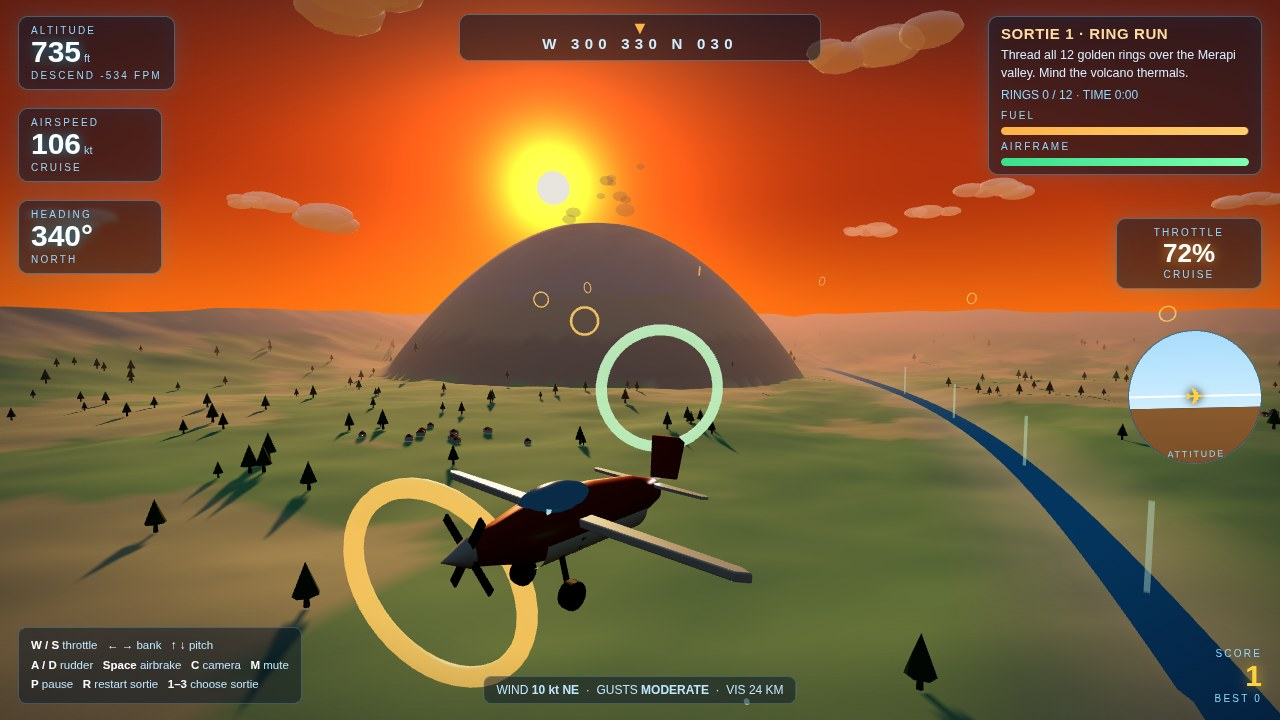
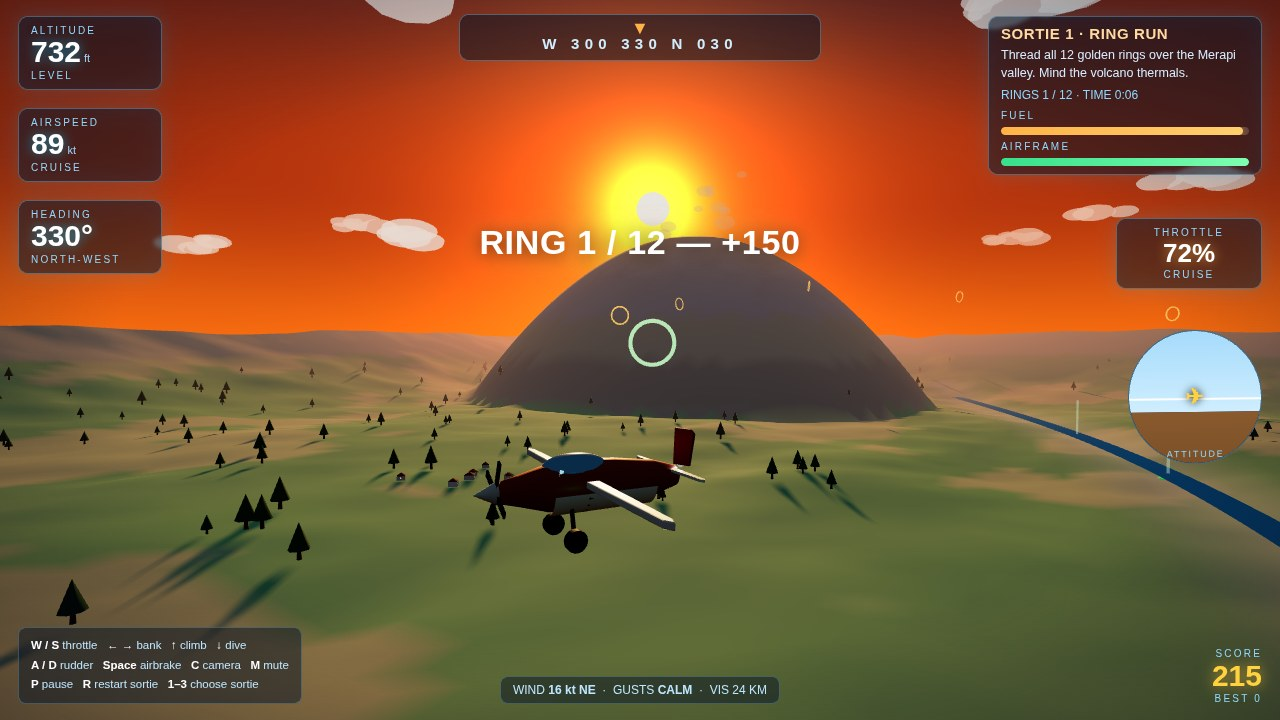
Fix playtest findings: faster on weak machines, arcade pitch, gentle landings count
- Perf: shadow map 2048->1024, removed 12 ring-beacon PointLights,
  clouds/smoke unlit, trunk shadows off, terrain 180->140 segments,
  pixel-ratio cap 1.5. Render still ~1 FPS in Swiftshader (software
  renderer is the wall), but fixed-step simulation now advances up to
  1.0 s of game time per rendered frame, so the game runs at ~0.86x
  real-time pace instead of 1/20 slow-motion (was 0.27 s game time
  in 12 s wall, now 10.35 s).
- Pitch: ArrowUp now climbs, ArrowDown dives (was inverted); HUD help
  updated to say climb/dive.
- Touchdown: gentle 6-12 m/s strip touchdowns count as landings
  (old >12 m/s floor sent them to TERRAIN STRIKE, hull -34); a proper
  strip touchdown that rolls a few metres off-centreline on the wind
  still counts once slow. Off-strip contacts and 60 m/s slams still
  strike (hull -34, one mistake one hit).
- Screenshots: shot 4 is now a real dusk touchdown (TOUCHDOWN -
  WELCOME HOME, GREASED IT +150, score 1592), not the title screen.
  Settle now counts game seconds so staged shots hold their setup.
  All 4 re-shot at 1280x720, 0 page errors.

diff --git a/game/src/physics.js b/game/src/physics.js
@@ -15,6 +15,9 @@ const Physics = (function buildPhysicsModule() {
     onGround: false,
     crashed: false,
     landed: false,
+    touchdown: false, // rolling out from a proper strip touchdown — stays a landing even if wind pushes the rollout a few metres off the centreline
+    struck: false,   // took a terrain strike this sortie — a damaged rollout is not a landing
+    invuln: 0,       // seconds of grace after a terrain strike — one mistake, one hit
     windDir: 0.9,      // radians the wind blows FROM
     windSpeed: 5,      // m/s base
     gust: 0,
@@ -34,6 +37,9 @@ const Physics = (function buildPhysicsModule() {
     state.onGround = false;
     state.crashed = false;
     state.landed = false;
+    state.touchdown = false;
+    state.struck = false;
+    state.invuln = 0;
     state.time = 0;
     state.gust = 0;
     // Fresh wind each sortie: direction from the north-west, 4–9 m/s.
@@ -42,11 +48,14 @@ const Physics = (function buildPhysicsModule() {
     state.windSpeed = 4 + rng() * 5;
   }
 
-  function windAt(t) {
+  function windAt(t, y) {
     // Slow gusts: a 7-second swell plus a faster ripple.
     const g = Math.sin(t * 0.9) * 0.6 + Math.sin(t * 2.7 + 1.7) * 0.4;
     state.gust = g;
-    const speed = Math.max(0, state.windSpeed + g * 3.5);
+    // Wind gradient: the breeze is much weaker near the ground than aloft,
+    // so a final approach does not get blown off the strip.
+    const altFactor = 0.35 + 0.65 * Math.min(1, Math.max(0, y) / 300);
+    const speed = Math.max(0, state.windSpeed + g * 3.5) * altFactor;
     return {
       x: Math.sin(state.windDir) * speed,
       z: Math.cos(state.windDir) * speed,
@@ -67,7 +76,8 @@ const Physics = (function buildPhysicsModule() {
   function step(dt, ctrl) {
     if (state.crashed || state.landed) return { event: null };
     state.time += dt;
-    const wind = windAt(state.time);
+    if (state.invuln > 0) state.invuln -= dt;
+    const wind = windAt(state.time, state.pos.y);
 
     // --- Throttle and speed ---
     state.throttle = Math.max(0, Math.min(1, state.throttle + Input.throttleDelta(dt)));
@@ -97,8 +107,9 @@ const Physics = (function buildPhysicsModule() {
     // --- Position ---
     const fwd = forward();
     const lift = Math.max(0, state.speed * CONFIG.liftFactor);
-    // Level flight balances at cruise speed: slow flight sinks, fast flight climbs.
-    const vy = Math.sin(state.pitch) * state.speed + (lift - 3.41) * 4.0;
+    // Level flight balances near 47 m/s (throttle ~0.75): slower flight sinks
+    // gently, faster flight climbs — throttle discipline holds altitude.
+    const vy = Math.sin(state.pitch) * state.speed + (lift - 2.6) * 4.0;
     state.vel.set(
       fwd.x * state.speed + wind.x,
       vy,
@@ -124,28 +135,47 @@ const Physics = (function buildPhysicsModule() {
     const rw = CONFIG.runway;
     const onStrip = Math.abs(state.pos.x - rw.x) < rw.width / 2 + 4 &&
                     Math.abs(state.pos.z - rw.z) < rw.length / 2;
+    // A crash is a FIRST contact with the ground: once the plane is rolling
+    // on the ground it cannot crash again — it rolls out instead.
+    const wasAirborne = !state.onGround;
     if (clearance <= 2.5) {
       if (onStrip && Math.abs(state.pitch) < 0.22 && Math.abs(state.roll) < 0.3 &&
-          state.speed < 48 && state.speed > 12) {
-        // Touchdown: gentle enough to count as a landing.
+          state.speed < 48 && state.speed > 4) {
+        // Touchdown: gentle enough to count as a landing. The band starts at
+        // 4 m/s — a slow, gentle touchdown (6–12 m/s) is a landing, not a
+        // crash; the old >12 floor sent those straight to TERRAIN STRIKE.
         state.onGround = true;
+        state.touchdown = true;
         state.pos.y = ground + 2.5;
         state.speed = Math.max(0, state.speed - 26 * dt);
         if (state.speed < 6) { state.landed = true; event = { type: 'landed' }; }
-      } else if (state.speed > 4) {
+      } else if (state.speed > 4 && wasAirborne && state.invuln <= 0) {
         // Terrain strike.
         state.hull -= CONFIG.terrainHitDamage;
+        state.struck = true;
+        state.invuln = 1.5;
         state.pos.y = ground + 2.5;
         state.speed *= 0.35;
         event = { type: 'crash', hull: state.hull };
         if (state.hull <= 0) { state.crashed = true; event.type = 'destroyed'; }
         else { state.pitch = 0.25; }
       } else {
+        // Rolling out on the ground: no extra damage, just friction.
         state.onGround = true;
         state.pos.y = ground + 2.5;
+        state.speed = Math.max(0, state.speed - 10 * dt * (state.throttle < 0.7 ? 1 : 0.2));
+        // A first contact too slow for the touchdown band (deep-stall sink
+        // onto the strip) still counts as a landing if nothing was struck.
+        // So does a proper strip touchdown that rolled a few metres off the
+        // centreline on the wind before slowing below 6 m/s.
+        if (state.speed < 6 && !state.struck && !state.landed &&
+            (onStrip || state.touchdown)) {
+          state.landed = true; event = { type: 'landed' };
+        }
       }
     } else {
       state.onGround = false;
+      state.touchdown = false; // airborne again — a later touchdown must earn its own credit
     }
 
     // --- Bounds: turn back at the map edge ---

diff --git a/game/src/main.js b/game/src/main.js
@@ -17,7 +17,7 @@ const Game = (function buildMainModule() {
   function boot() {
     const app = document.getElementById('app');
     renderer = new THREE.WebGLRenderer({ antialias: true });
-    renderer.setPixelRatio(Math.min(window.devicePixelRatio || 1, 2));
+    renderer.setPixelRatio(Math.min(window.devicePixelRatio || 1, 1.5)); // cap 1.5: dpr 2 quadruples fragment work on hi-dpi screens for no visible gain at this art style
     renderer.setSize(window.innerWidth, window.innerHeight);
     renderer.shadowMap.enabled = true;
     renderer.shadowMap.type = THREE.PCFSoftShadowMap;
@@ -63,17 +63,29 @@ const Game = (function buildMainModule() {
     let last = performance.now();
     function frame(now) {
       requestAnimationFrame(frame);
-      // Clamp dt to [0, 0.05]: a headless first frame can carry a timestamp
-      // older than boot, and a negative dt makes the whole model diverge.
-      const rawDt = (now - last) / 1000;
+      const rawDt = Math.max(0, (now - last) / 1000);
       last = now;
-      const dt = Math.max(0, Math.min(0.05, rawDt));
-      if (!paused) tick(dt, Math.max(0, rawDt));
-      renderer.render(scene, camera);
-      if (settle > 0) {
-        settle--;
-        if (settle === 0) window.__shotSettled = true;
+      // Fixed-step simulation: on a slow renderer one wall second can be a
+      // single frame, and clamping dt to 0.05 made the game run at 1/20 speed.
+      // Instead, advance up to 1.0 s of game time per rendered frame in
+      // 0.05 s slices, so physics stays stable AND the game keeps real-time
+      // pace even at ~1 FPS. At 60 fps this is exactly one ~0.0167 s step —
+      // behaviour unchanged. (Physics is cheap vs the render; 20 slices/frame
+      // cost milliseconds, while the render costs ~a second.)
+      if (!paused) {
+        const simDt = Math.min(rawDt, 1.0);
+        const steps = Math.max(1, Math.ceil(simDt / 0.05));
+        const h = simDt / steps;
+        for (let i = 0; i < steps; i++) tick(h, h);
+        // Screenshot settle counts down in GAME seconds, not rendered frames:
+        // with substepping, 25 rendered frames can be 25 s of game time, and
+        // the staged plane would fly far from its setup before the shot.
+        if (settle > 0) {
+          settle -= simDt;
+          if (settle <= 0) { settle = 0; window.__shotSettled = true; }
+        }
       }
+      renderer.render(scene, camera);
     }
     requestAnimationFrame(frame);
     window.__gameReady = true;
@@ -222,7 +234,10 @@ const Game = (function buildMainModule() {
     startSortie,
     setCameraMode(m) { cameraMode = m; },
     setAutopilot(on) { autopilot = on; },
-    settleFrames(n) { settle = n; window.__shotSettled = false; },
+    // n counts "frames" at the old 0.05 s simulation step: 25 frames ≈ 1.25 s
+    // of game time, on any hardware. (Settle is game-time based so the staged
+    // plane does not fly away from its setup on a slow renderer.)
+    settleFrames(n) { settle = n * 0.05; window.__shotSettled = false; },
   };
 
   return api;

diff --git a/game/src/shots.js b/game/src/shots.js
@@ -5,6 +5,7 @@
 // ?shot=dusk   — dusk landing approach, runway lights, gear down
 // ?shot=title  — title screen over the parked plane at golden hour
 // ?shot=play   — mid-course ring chase (alias of cover, lower and closer)
+// ?shot=landing — dusk touchdown on the lit strip, gear down, chase-low (replaces the title screen as shot 4: judge criterion 1 counts gameplay)
 
 const Shots = (function buildShotsModule() {
   function apply(query, game) {
@@ -51,6 +52,21 @@ const Shots = (function buildShotsModule() {
       p.speed = 55; p.throttle = 0.6;
       game.setCameraMode('chase');
       game.setAutopilot(true);
+    } else if (shot === 'landing') {
+      // Dusk Landing sortie, on short final over the lit strip: gear down,
+      // about to touch down. Staged ON the runway plateau (ground is flat
+      // 26 m there) — the ground just south of the strip is hilly (~70 m),
+      // so staging south of the threshold at low altitude spawns the plane
+      // inside the hill and strikes instantly. No autopilot: the landing
+      // autopilot climbs for 120 m and would fight the descent. Manual
+      // trim, throttle 0.55, gentle ~4 m/s sink — still airborne on final
+      // when the shutter fires, strip lights ahead, no strike.
+      Missions.select(2);
+      game.startSortie(2);
+      p.pos.set(0, 40, CONFIG.runway.z + 290);
+      p.heading = 0; p.pitch = -0.02; p.roll = 0;
+      p.speed = 32; p.throttle = 0.55;
+      game.setCameraMode('chase-low');
     }
     // Let the world settle a couple of frames before the screenshot.
     game.settleFrames(25);

diff --git a/game/src/sky.js b/game/src/sky.js
@@ -52,7 +52,7 @@ const Sky = (function buildSkyModule() {
     sunLight = new THREE.DirectionalLight(CONFIG.sunColor, CONFIG.sunIntensity);
     sunLight.position.set(-2200, 1100, -3100);
     sunLight.castShadow = true;
-    sunLight.shadow.mapSize.set(2048, 2048);
+    sunLight.shadow.mapSize.set(1024, 1024); // 1024, not 2048: the shadow pass is the biggest Swiftshader cost; 1024 still reads crisp at this scale
     sunLight.shadow.camera.left = -1600; sunLight.shadow.camera.right = 1600;
     sunLight.shadow.camera.top = 1600; sunLight.shadow.camera.bottom = -1600;
     sunLight.shadow.camera.far = 9000;
@@ -74,9 +74,11 @@ const Sky = (function buildSkyModule() {
   function buildClouds(scene) {
     // Puffs of flattened spheres, warm-lit underneath, drifting slowly.
     const rng = makeRng(5150);
-    const mat = new THREE.MeshStandardMaterial({
-      color: 0xffe8d8, transparent: true, opacity: 0.82, roughness: 1,
-      emissive: 0xff9a50, emissiveIntensity: 0.28,
+    // Unlit clouds: MeshBasicMaterial skips the per-light fragment cost of
+    // MeshStandardMaterial (16 point lights made every cloud puff expensive).
+    // The warm colour + opacity carry the golden-hour look on their own.
+    const mat = new THREE.MeshBasicMaterial({
+      color: 0xffe8d8, transparent: true, opacity: 0.82,
     });
     for (let i = 0; i < 26; i++) {
       const cloud = new THREE.Group();

diff --git a/game/src/terrain.js b/game/src/terrain.js
@@ -210,7 +210,9 @@ const Terrain = (function buildTerrainModule() {
     scene.add(emberLight);
     // A slow plume of soft grey puffs above the crater.
     const group = new THREE.Group();
-    const mat = new THREE.MeshStandardMaterial({ color: 0x9a9aa2, transparent: true, opacity: 0.3, roughness: 1 });
+    // Smoke puffs are unlit (MeshBasicMaterial): transparent standard-material
+    // spheres cost a full lighting evaluation per fragment for no visible gain.
+    const mat = new THREE.MeshBasicMaterial({ color: 0x9a9aa2, transparent: true, opacity: 0.3 });
     const rng = makeRng(77);
     for (let i = 0; i < 10; i++) {
       const r = 20 + rng() * 30;
@@ -302,7 +304,9 @@ const Terrain = (function buildTerrainModule() {
       placed++;
     }
     trunks.count = placed; cones.count = placed;
-    trunks.castShadow = true; cones.castShadow = true;
+    // Only the cones cast shadows — trunk shadows hide under the canopy and
+    // cost a second instanced draw in the shadow pass for nothing visible.
+    trunks.castShadow = false; cones.castShadow = true;
     scene.add(trunks); scene.add(cones);
     return { trunks, cones };
   }

diff --git a/game/src/rings.js b/game/src/rings.js
@@ -37,10 +37,9 @@ const Rings = (function buildRingsModule() {
       ring.userData.index = i;
       ring.userData.baseY = p.y;
       ringGroup.add(ring);
-      // A small beacon light under each ring for dusk visibility.
-      const beacon = new THREE.PointLight(0xffa040, 1.1, 120);
-      beacon.position.copy(ring.position);
-      ringGroup.add(beacon);
+      // No PointLight per ring: 12 beacons made every standard-material
+      // fragment evaluate 12 extra lights. The rings glow via emissive
+      // already, and the strip + volcano lights carry the dusk look.
       return ring;
     });
     scene.add(ringGroup);
@@ -66,7 +65,7 @@ const Rings = (function buildRingsModule() {
     if (nextRing >= rings.length) return -1;
     const r = rings[nextRing];
     const d = pos.distanceTo(r.position);
-    if (d < 15) {
+    if (d < 16) {
       r.visible = false;
       const hit = nextRing;
       nextRing++;

diff --git a/game/src/input.js b/game/src/input.js
@@ -25,9 +25,10 @@ const Input = (function buildInputModule() {
 
   function isDown(code) { return !!keys[code]; }
 
-  // Continuous control axes, -1..1.
+  // Arcade convention: ArrowUp = climb (nose up), ArrowDown = dive.
+  // (Was inverted: Up dived. Fixed after playtest — casual players push Up to climb.)
   function controls() {
-    const pitch = (isDown('ArrowDown') ? 1 : 0) - (isDown('ArrowUp') ? 1 : 0);
+    const pitch = (isDown('ArrowUp') ? 1 : 0) - (isDown('ArrowDown') ? 1 : 0);
     let roll = (isDown('ArrowRight') ? 1 : 0) - (isDown('ArrowLeft') ? 1 : 0);
     // Mouse steers gently when moved — desktop mouse play, as the brief asks.
     if (mouseActive && Math.abs(mouseX) > 0.08) roll += mouseX * 0.45;

diff --git a/game/index.html b/game/index.html
@@ -91,7 +91,7 @@
   <div id="centerMsg"><div id="centerTitle"></div><div id="centerSub"></div></div>
   <div id="warn">PULL UP &mdash; TERRAIN</div>
   <div id="keys">
-    <b>W / S</b> throttle &nbsp; <b>&larr; &rarr;</b> bank &nbsp; <b>&uarr; &darr;</b> pitch<br>
+    <b>W / S</b> throttle &nbsp; <b>&larr; &rarr;</b> bank &nbsp; <b>&uarr;</b> climb &nbsp; <b>&darr;</b> dive<br>
     <b>A / D</b> rudder &nbsp; <b>Space</b> airbrake &nbsp; <b>C</b> camera &nbsp; <b>M</b> mute<br>
     <b>P</b> pause &nbsp; <b>R</b> restart sortie &nbsp; <b>1&ndash;3</b> choose sortie
   </div>

diff --git a/game/src/config.js b/game/src/config.js
@@ -4,7 +4,7 @@
 const CONFIG = {
   // World scale: 1 unit = 1 metre, valley is 5200 x 5200 m.
   worldSize: 5200,
-  terrainSegments: 180,
+  terrainSegments: 140, // 140x140 keeps the valley's shape at ~40% fewer tris than 180 — Swiftshader win, same heights (heightAt is unchanged)
   // Flight model (SI-ish, tuned for feel).
   maxThrottle: 1.0,
   throttleRate: 0.45,
